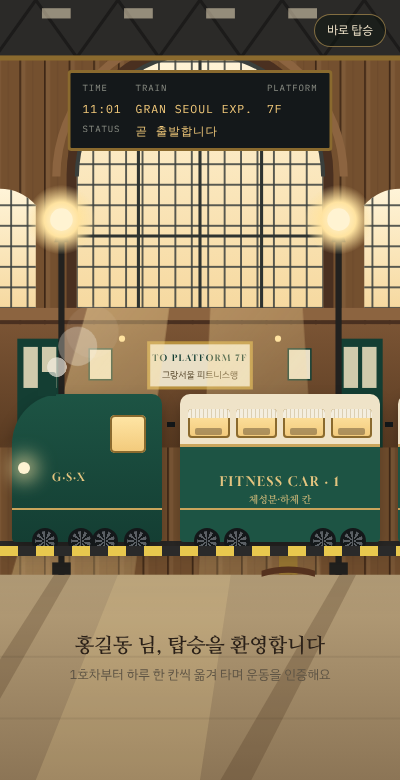
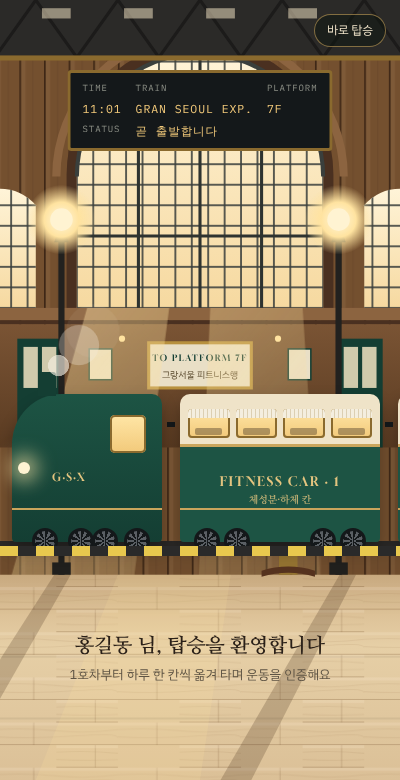
Brighten platform floor with light oak planks
Claude-Session: https://claude.ai/code/session_01944gX2svfc1a8cfr9gyaLp

Changed region(s): [[0.0, 0.7385, 1.0, 1.0], [0.15, 0.4615, 0.18, 0.4923], [0.12, 0.4308, 0.15, 0.4615]]

diff --git a/index.html b/index.html
@@ -911,7 +911,7 @@ h1,h2,h3,h4,.st-card h2,.gate b{text-wrap:balance}
           <pattern id="mul2" width="16" height="20" patternUnits="userSpaceOnUse"><rect width="16" height="20" fill="none" stroke="#3A3F3C" stroke-width="1.6"/></pattern>
           <linearGradient id="sky2" x1="0" y1="0" x2="0" y2="1"><stop offset="0" stop-color="#FFF4D8"/><stop offset="1" stop-color="#F6D9A0"/></linearGradient>
           <linearGradient id="beam2" x1="0" y1="0" x2="1" y2="1"><stop offset="0" stop-color="rgba(255,226,160,.6)"/><stop offset="1" stop-color="rgba(255,226,160,0)"/></linearGradient>
-          <linearGradient id="floor2" x1="0" y1="0" x2="0" y2="1"><stop offset="0" stop-color="#B7A07A"/><stop offset="1" stop-color="#8C7556"/></linearGradient>
+          <linearGradient id="floor2" x1="0" y1="0" x2="0" y2="1"><stop offset="0" stop-color="#D2B286"/><stop offset=".35" stop-color="#E6CFA6"/><stop offset="1" stop-color="#DBC097"/></linearGradient><pattern id="plank2" width="120" height="22" patternUnits="userSpaceOnUse"><rect width="120" height="22" fill="none"/><path d="M0 21.5 H120" stroke="rgba(110,74,40,.28)" stroke-width="1"/><path d="M38 0 V22" stroke="rgba(110,74,40,.22)" stroke-width="1"/><path d="M0 7 Q30 5 60 8 T120 7 M0 14 Q40 16 80 13 T120 15" stroke="rgba(140,100,60,.10)" stroke-width="1" fill="none"/><rect x="0" y="0" width="120" height="3" fill="rgba(255,240,215,.18)"/></pattern><pattern id="plank2b" width="120" height="44" patternUnits="userSpaceOnUse"><rect y="0" width="120" height="22" fill="url(#plank2)"/><rect x="0" y="22" width="120" height="22" fill="url(#plank2)" transform="translate(60 0)"/></pattern>
           <linearGradient id="panel" x1="0" y1="0" x2="0" y2="1"><stop offset="0" stop-color="#7A5434"/><stop offset="1" stop-color="#5A3B22"/></linearGradient>
           <radialGradient id="globeL"><stop offset="0" stop-color="#FFF6DA"/><stop offset=".5" stop-color="#FFE3A0"/><stop offset="1" stop-color="rgba(255,227,160,0)"/></radialGradient>
         </defs>
@@ -946,7 +946,7 @@ h1,h2,h3,h4,.st-card h2,.gate b{text-wrap:balance}
         <!-- 빛줄기 -->
         <path class="beams2" d="M90 300 L-40 760 L110 760 L170 300 Z M210 300 L190 760 L330 760 L300 300 Z" fill="url(#beam2)"/>
         <!-- 승강장 바닥 + 긴 그림자 -->
-        <rect x="0" y="560" width="400" height="200" fill="url(#floor2)"/>
+        <rect x="0" y="560" width="400" height="200" fill="url(#floor2)"/><rect x="0" y="560" width="400" height="200" fill="url(#plank2b)"/>
         <g fill="rgba(60,36,20,.22)"><path d="M58 560 L74 560 L-40 760 L-70 760 Z"/><path d="M336 560 L352 560 L250 760 L220 760 Z"/></g>
         <g fill="rgba(255,226,160,.18)"><path d="M120 560 L230 560 L200 760 L40 760 Z"/></g>
         <path d="M0 640 H400 M0 700 H400" stroke="rgba(0,0,0,.06)" stroke-width="2"/>
